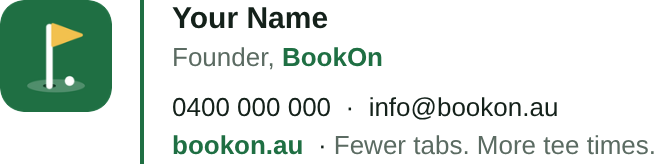
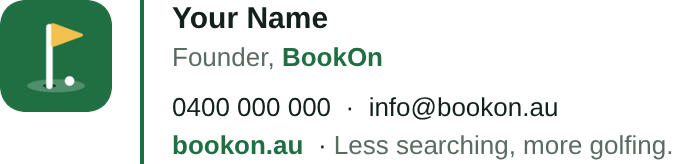
Email signature: slogan is now "Less searching, more golfing."
Claude-Session: https://claude.ai/code/session_011UsrvtojKzNg5QYZysThax

diff --git a/docs/brand/email-signature/signature.html b/docs/brand/email-signature/signature.html
@@ -52,7 +52,7 @@
               style="color: #1f6f43; font-weight: bold; text-decoration: none"
               >bookon.au</a
             >
-            &nbsp;·&nbsp;<span style="color: #5b6b62">Fewer tabs. More tee times.</span>
+            &nbsp;·&nbsp;<span style="color: #5b6b62">Less searching, more golfing.</span>
           </p>
         </td>
       </tr>
